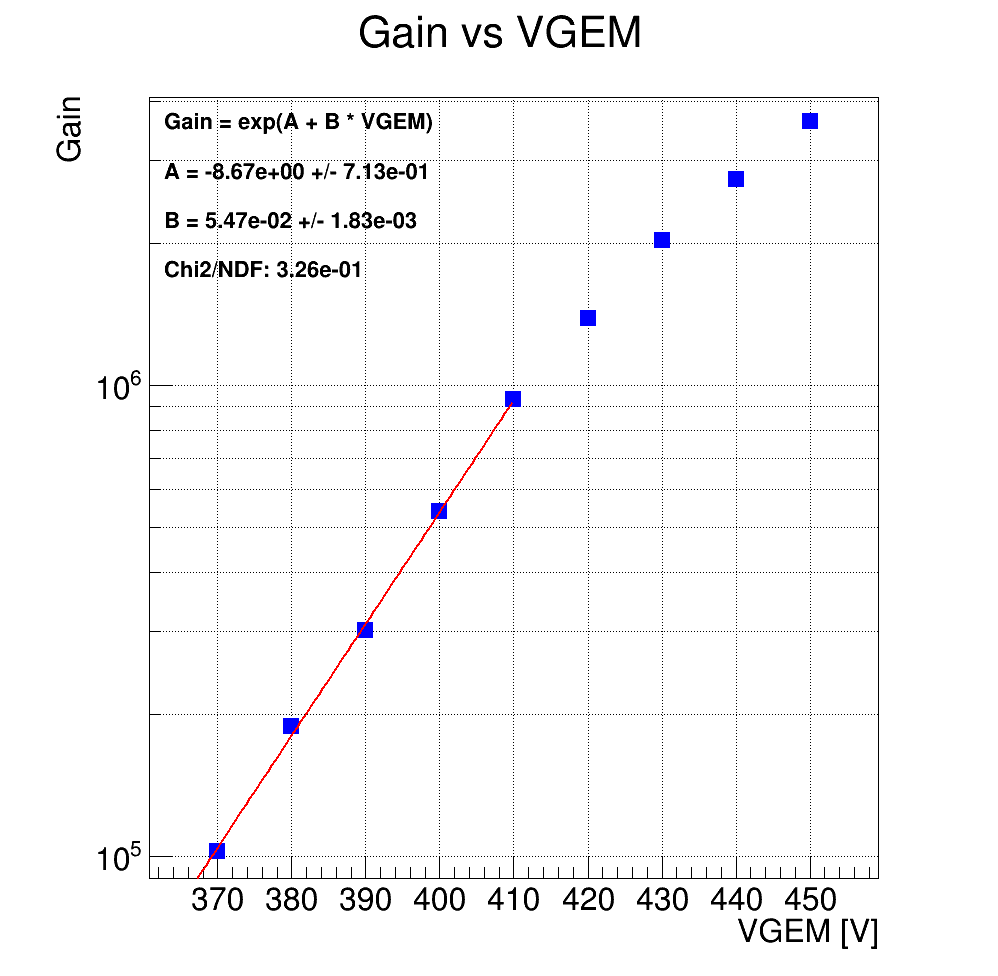
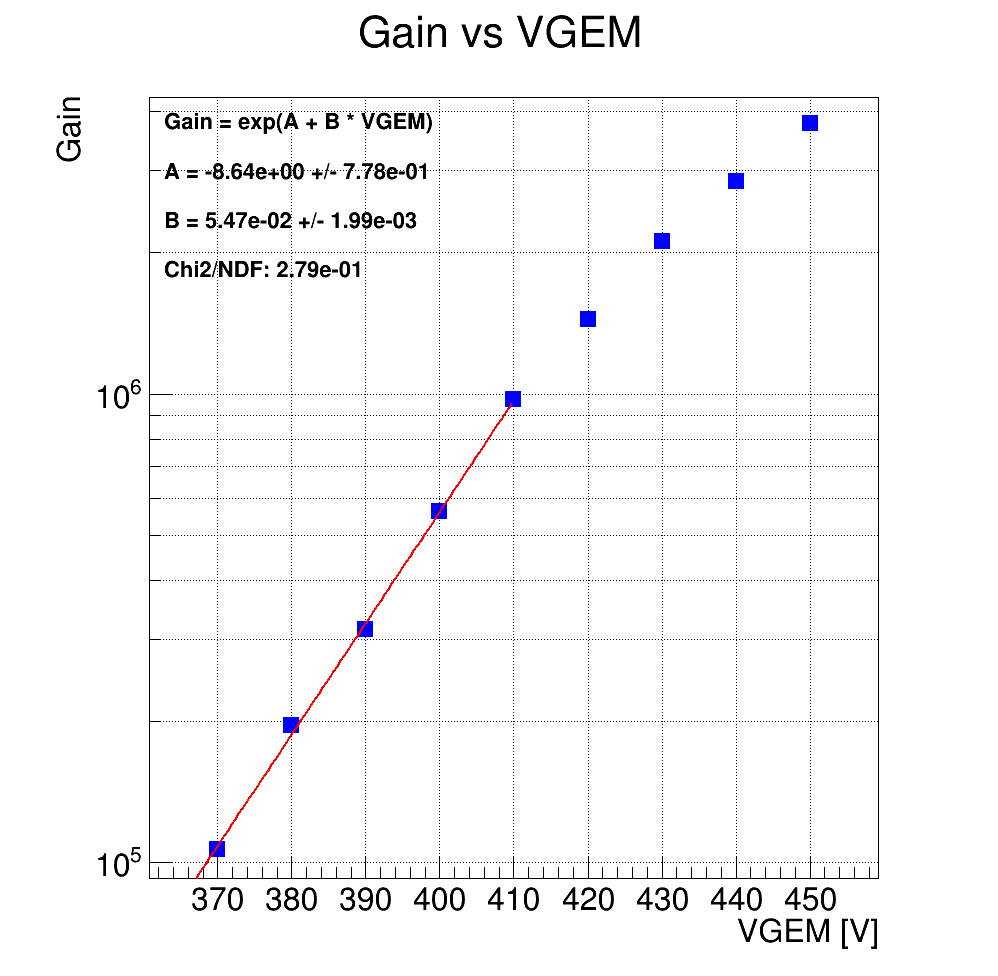
now scripts works with different eprcentage

diff --git a/chargeGainfromQUEST.py b/chargeGainfromQUEST.py
@@ -2,13 +2,21 @@ import ROOT
 import numpy as np
 import uproot
 import pandas as pd
+import argparse
+
+# Set up argument parser
+parser = argparse.ArgumentParser(description="Process and plot data from files.")
+parser.add_argument('--hfo_qnt', type=str, help="HFO quantity in the chamber",default=0)
+
+args = parser.parse_args()
+hfo_qnt=args.hfo_qnt
 
 def intTOgain(integral):
     conversionFactor=0.107 #e-/count
     lightFraction=0.07# gamma/e- only visible light
+    QE=0.35#QE @ effective from Giorgio's calcualtion
     #omega=9.2E-4#solid angle fraction LIME
     omega=1.16E-3#solid angle fraction QUEST MANGO
-    QE=1#QE @ 650nm
     n0=168#stima Fe55
     return (integral*conversionFactor)/(lightFraction*omega*QE*n0)
 
@@ -59,7 +67,7 @@ def plot_tgrapherrors(gr, output_filename="output.png",setLog=False,setGrid=True
 # Read the file into a DataFrame
 df = pd.read_csv("LY_HeCF4.txt", sep="\t")
 # Open the ROOT file in read mode
-root_file = ROOT.TFile("GainPico.root", "READ")
+root_file = ROOT.TFile(f"GainPico_{hfo_qnt}.root", "READ")
 # Retrieve the TGraphErrors object
 graphCharge = root_file.Get("Gain vs VGEM Corrected")
 # Extract X, Y, errX, and errY from the TGraphErrors object
@@ -76,7 +84,7 @@ df["LightGain_err"] = df["dPeak"].apply(intTOgain)
 
 
 
-main_file=ROOT.TFile("LightChargeComparison.root","RECREATE")
+main_file=ROOT.TFile(f"LightChargeComparison_{hfo_qnt}.root","RECREATE")
 # Create a new TGraphErrors object
 graphLight = grapherr(df["VGEM"], df["LightGain"], np.ones(len(df)), df["LightGain_err"],"VGEM [V]","Light Gain",name="Light Gain vs VGEM",color=2,write=False)
 expo=ROOT.TF1("expo","expo",300,430)
@@ -101,16 +109,40 @@ mulitgraph.GetXaxis().SetTitle("VGEM [V]")
 mulitgraph.GetYaxis().SetTitle("Gain")
 mulitgraph.GetYaxis().SetRangeUser(5E4, 5E6)
 
-plot_tgrapherrors(mulitgraph, "ChargeVSLight.png", setLog=True, setGrid=True, pavetext=pavetext)
+plot_tgrapherrors(mulitgraph, f"ChargeVSLight_{hfo_qnt}.png", setLog=True, setGrid=True, pavetext=pavetext)
 
-
+"""
 difference=np.abs(df["LightGain"]-y)
 difference_err = np.sqrt(df["LightGain_err"]**2 + ey**2)
 ratio = df["LightGain"]/y
 ratio_err = ratio * np.sqrt((df["LightGain_err"] / df["LightGain"])**2 + (ey / y)**2)
+"""
+# Create a DataFrame from the numpy arrays using the same column names for merging.
+df_x = pd.DataFrame({"VGEM": np.array(x), "y": np.array(y), "ey": np.array(ey)})
 
-graphDifference = grapherr(df["VGEM"], difference, np.ones(len(df)), difference_err,"VGEM [V]","|Light Gain - Charge Gain|",name="|Light Gain - Charge Gain|",color=2,write=True)
-graphRatio = grapherr(df["VGEM"], ratio, np.ones(len(df)), ratio_err,"VGEM [V]","Light Gain / Charge Gain",name="Light Gain / Charge Gain",color=2,write=True)
+# Convert the VGEM columns to the same type (e.g., float) in both DataFrames.
+df["VGEM"] = df["VGEM"].astype(float)
+df_x["VGEM"] = df_x["VGEM"].astype(float)
+
+# Ensure both DataFrames are sorted by VGEM (merge_asof requires sorted data).
+df = df.sort_values("VGEM")
+df_x = df_x.sort_values("VGEM")
+
+# Use merge_asof to merge the two DataFrames on VGEM,
+# allowing matches within a tolerance of 1 (units of VGEM).
+merged = pd.merge_asof(df, df_x, on="VGEM", tolerance=1, direction="nearest")
+
+# Compute the desired quantities using the merged DataFrame.
+difference = np.abs(merged["LightGain"] - merged["y"])
+difference_err = np.sqrt(merged["LightGain_err"]**2 + merged["ey"]**2)
+ratio = merged["LightGain"] / merged["y"]
+ratio_err = ratio * np.sqrt(
+    (merged["LightGain_err"] / merged["LightGain"])**2 +
+    (merged["ey"] / merged["y"])**2
+)
+
+graphDifference = grapherr(df_x["VGEM"], difference, np.ones(len(df_x["VGEM"])), difference_err,"VGEM [V]","|Light Gain - Charge Gain|",name="|Light Gain - Charge Gain|",color=2,write=True)
+graphRatio = grapherr(df_x["VGEM"], ratio, np.ones(len(df_x["VGEM"])), ratio_err,"VGEM [V]","Light Gain / Charge Gain",name="Light Gain / Charge Gain",color=2,write=True)
 
 # Create a rectangular canvas with two pads
 canvas = ROOT.TCanvas("canvas", "Difference and Ratio", 2300, 1000)
@@ -128,5 +160,5 @@ graphRatio.Draw("AP")
 canvas.Update()
 
 # Save the canvas as a PNG file
-canvas.SaveAs("DifferenceAndRatio.png")
+canvas.SaveAs(f"DifferenceAndRatio_{hfo_qnt}.png")
 

diff --git a/gainPico.py b/gainPico.py
@@ -8,12 +8,8 @@ import re
 import matplotlib.pyplot as plt
 
 #meassured from Plateau
-#first measuremtn
-rate=12E3
-err_rate=0.2E3
-#second mesurement
-rate=10E3
-err_rate=0.2E3
+
+
 n0=168
 e=1.6E-19
 
@@ -25,6 +21,14 @@ parser.add_argument('--hfo_qnt', type=str, help="HFO quantity in the chamber",de
 args = parser.parse_args()
 
 hfo_qnt=args.hfo_qnt
+
+if hfo_qnt=="0":
+    #second mesurement
+    rate=10E3
+    err_rate=0.2E3
+elif hfo_qnt=="1":
+    rate=9.6E3
+    err_rate=0.3E3
 
 def grapherr(x,y,ex,ey,x_string, y_string,name=None, color=4, markerstyle=22, markersize=2,write=True):
     plot = ROOT.TGraphErrors(len(x),  np.array(x  ,dtype="d"),  np.array(y  ,dtype="d"),  np.array(ex  ,dtype="d")  ,   np.array(ey  ,dtype="d") )
@@ -204,7 +208,7 @@ print("VGEM Numbers:", vgem_numbers)
 print("Net Means:", net_means)
 print("Net Errors:", net_errors)
 
-main_file = ROOT.TFile("GainPico.root","RECREATE")
+main_file = ROOT.TFile(f"GainPico_{hfo_qnt}.root","RECREATE")
 grapherr(vgem_numbers, net_means, np.zeros_like(net_means), net_errors, "VGEM [V]", "Current [A]", "Current vs VGEM ", write=True)
 
 
